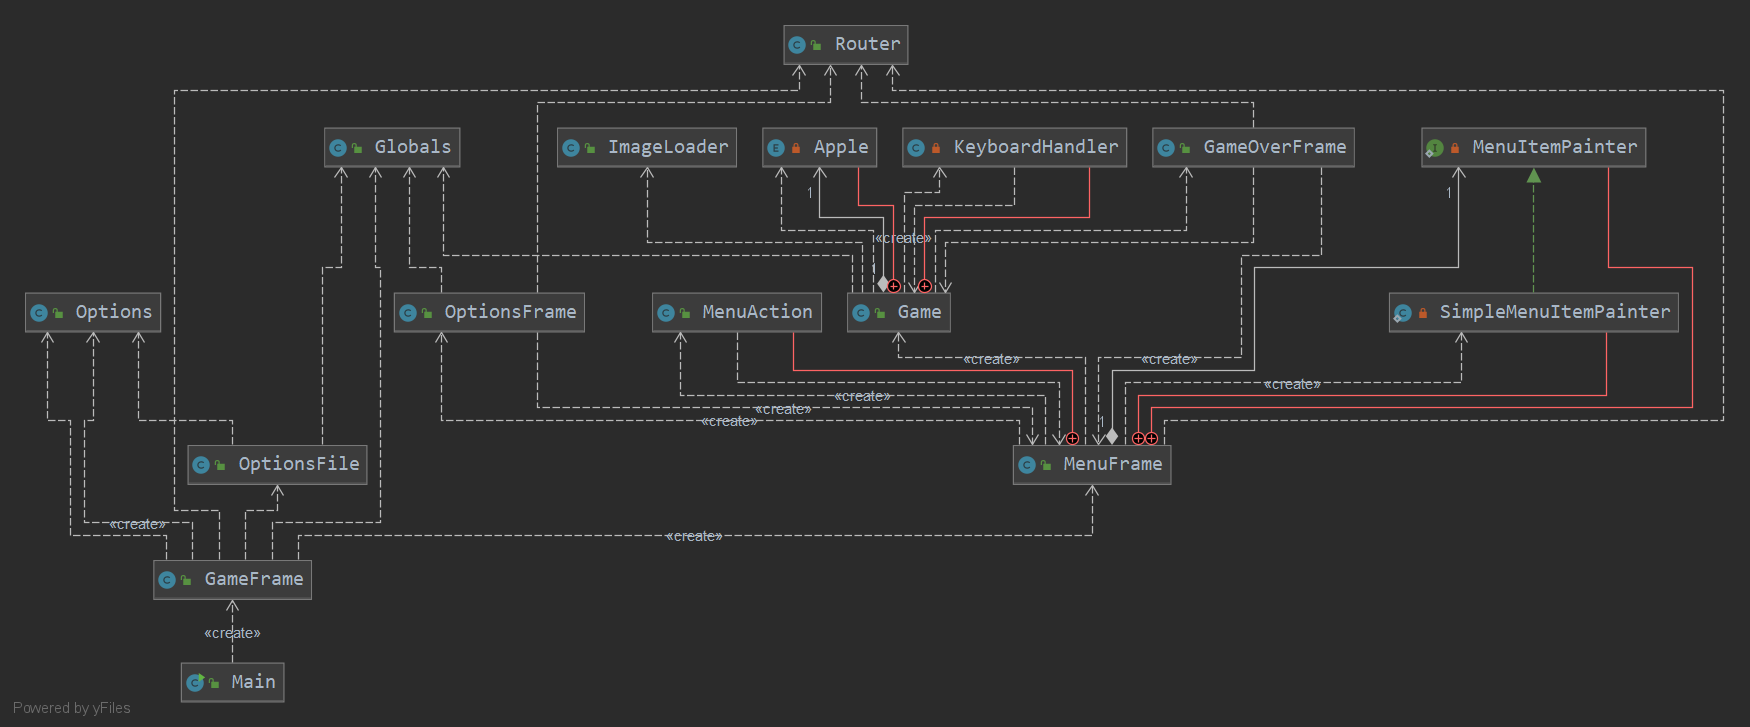
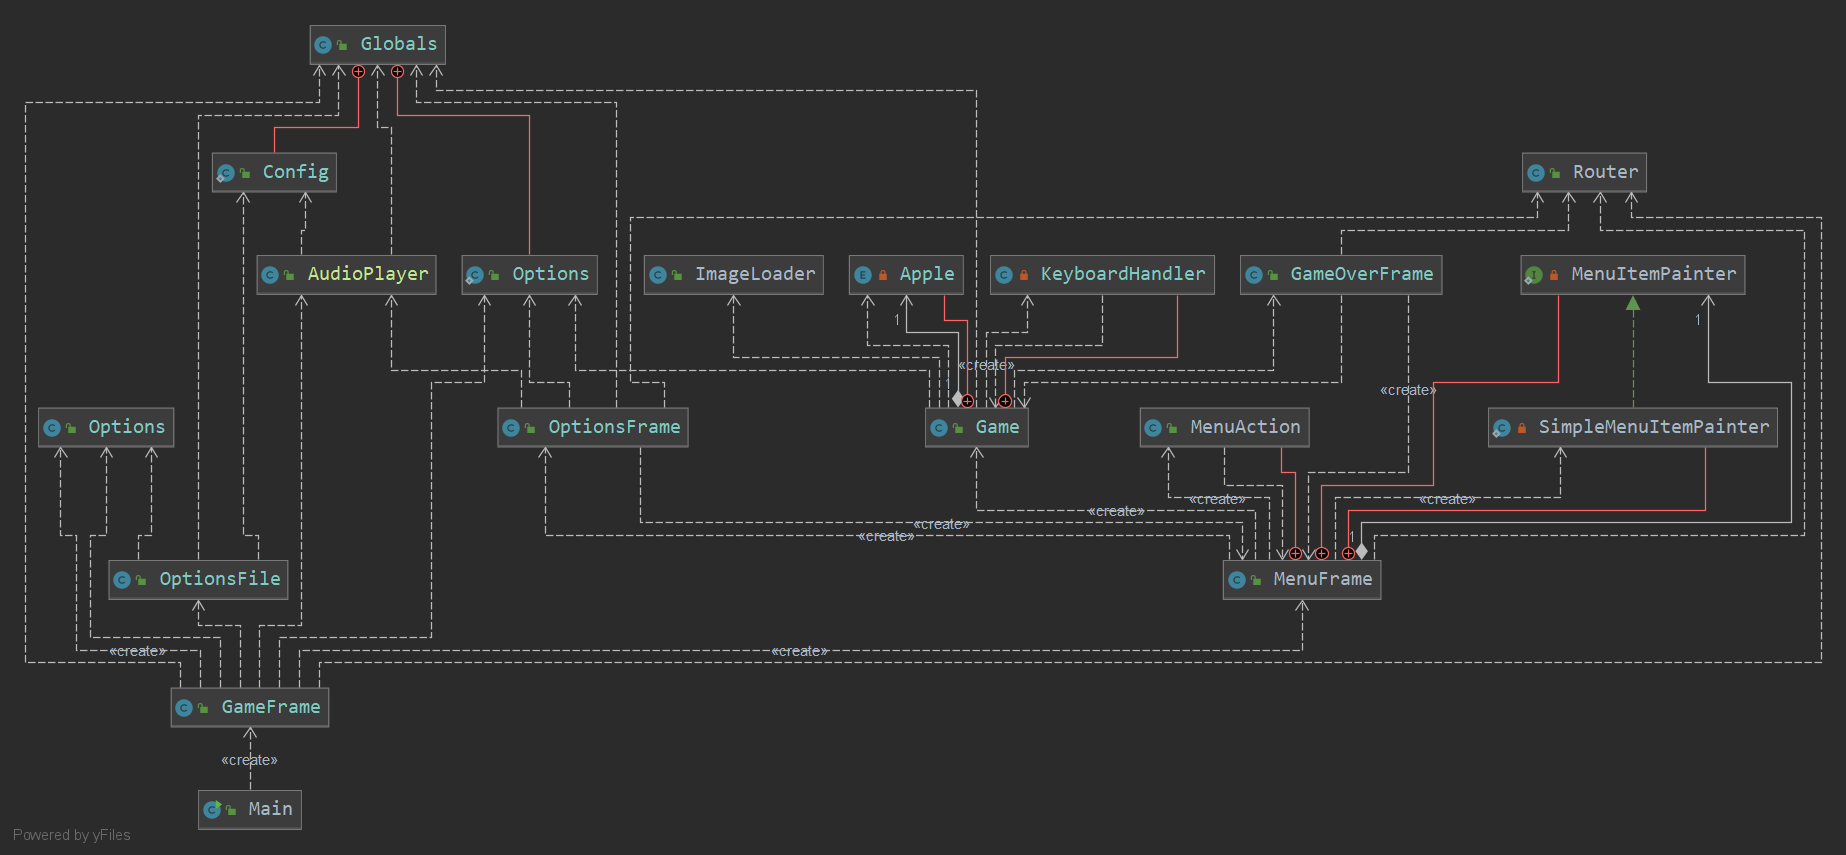
AudioPlayer added

diff --git a/src/utils/AudioPlayer.java b/src/utils/AudioPlayer.java
@@ -1,0 +1,37 @@
+package utils;
+
+import core.Globals;
+
+import javax.sound.sampled.AudioSystem;
+import javax.sound.sampled.Clip;
+import java.io.File;
+
+public class AudioPlayer {
+
+    private static Clip clip;
+
+    private static void init() {
+        try {
+            var audioInputStream =
+                    AudioSystem.getAudioInputStream(new File(Globals.Config.audioFile).getAbsoluteFile());
+
+            clip = AudioSystem.getClip();
+            clip.open(audioInputStream);
+            clip.loop(Clip.LOOP_CONTINUOUSLY);
+        }
+        catch (Exception e) {
+            System.out.println(e.getMessage());
+        }
+    }
+
+    public static void play() {
+        init();
+//        clip.start();
+    }
+
+    public static void stop() {
+        clip.stop();
+        clip.close();
+
+    }
+}
